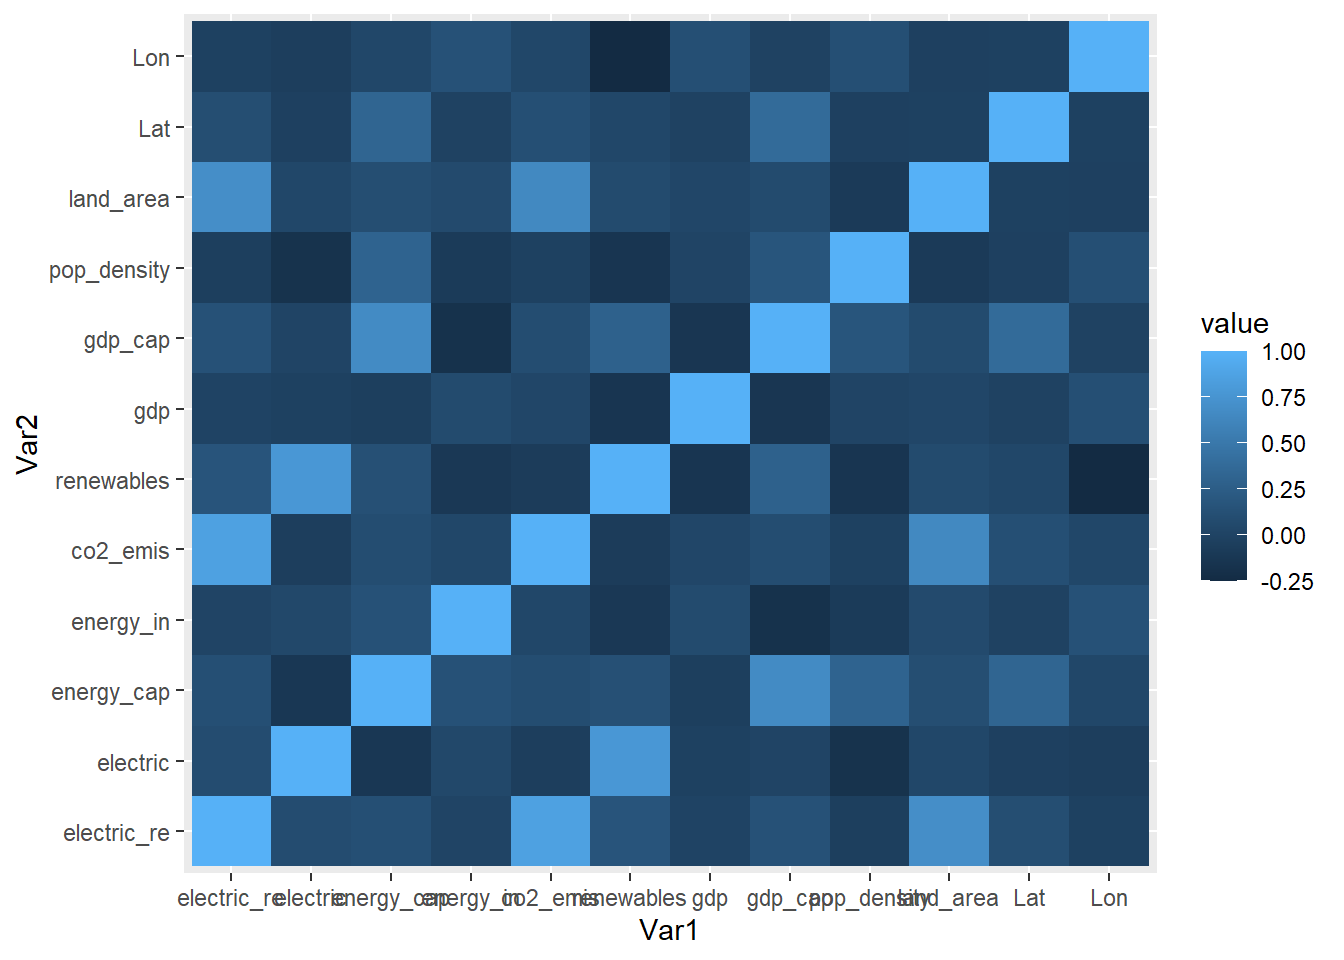
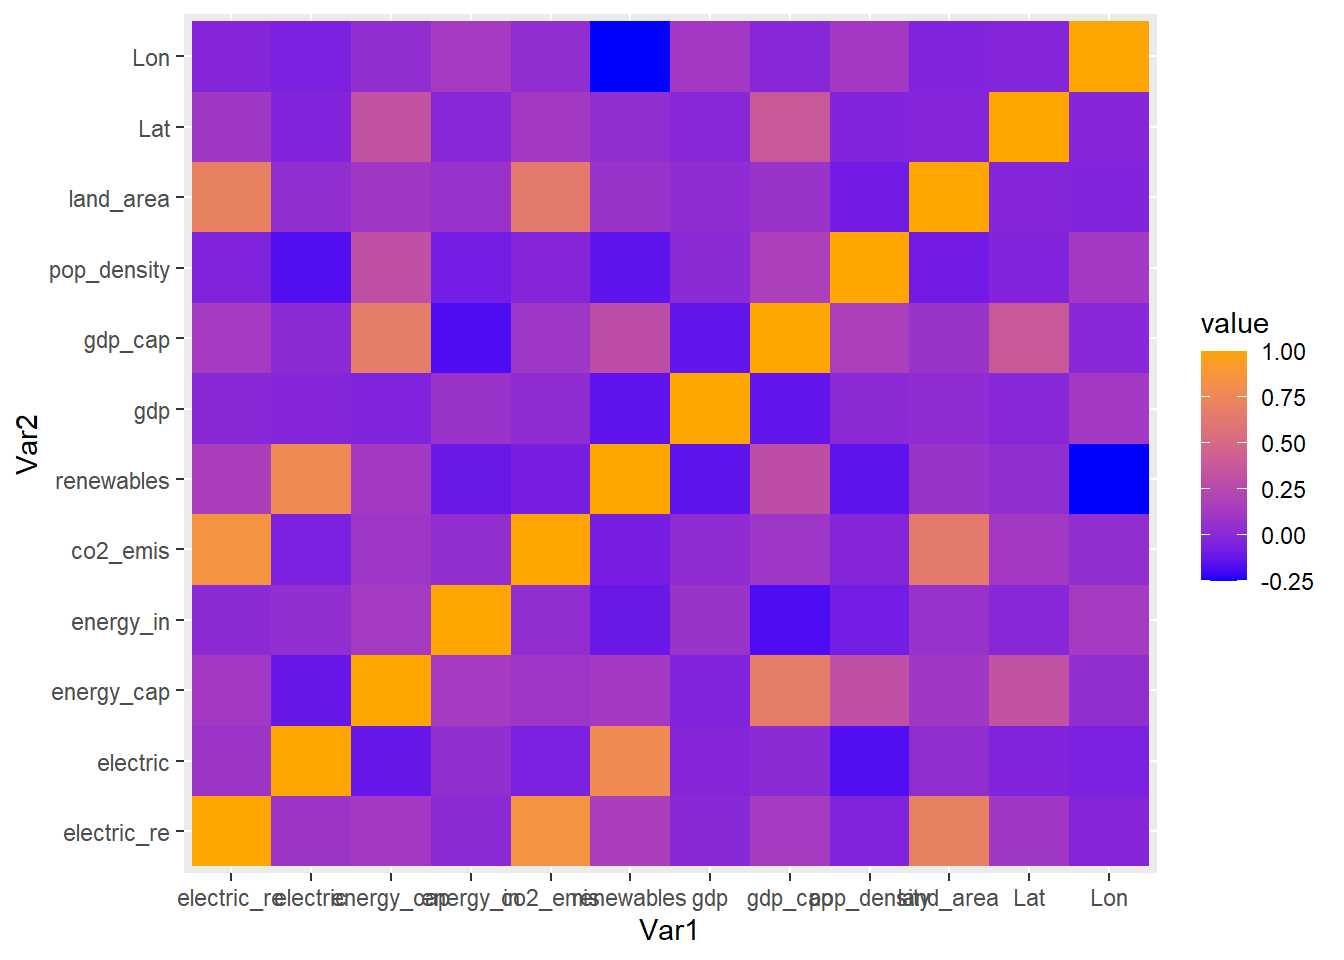
Model added with accuracy metric

diff --git a/rendered_document.html b/rendered_document.html
@@ -318,7 +318,9 @@ Longitude                                                                     1<
 <span id="cb14-2"><a href="#cb14-2" aria-hidden="true" tabindex="-1"></a>corelation_matrix <span class="ot">&lt;-</span> reshape2<span class="sc">::</span><span class="fu">melt</span>(</span>
 <span id="cb14-3"><a href="#cb14-3" aria-hidden="true" tabindex="-1"></a>  <span class="fu">round</span>(<span class="fu">cor</span>(data_for_correlation, <span class="at">use =</span> <span class="st">'pairwise.complete.obs'</span>), <span class="dv">2</span>)</span>
 <span id="cb14-4"><a href="#cb14-4" aria-hidden="true" tabindex="-1"></a>  )</span>
-<span id="cb14-5"><a href="#cb14-5" aria-hidden="true" tabindex="-1"></a><span class="fu">ggplot</span>(<span class="at">data=</span> corelation_matrix, <span class="fu">aes</span>(Var1, Var2, <span class="at">fill =</span> value)) <span class="sc">+</span> <span class="fu">geom_tile</span>()</span></code><button title="Copy to Clipboard" class="code-copy-button"><i class="bi"></i></button></pre></div>
+<span id="cb14-5"><a href="#cb14-5" aria-hidden="true" tabindex="-1"></a><span class="fu">ggplot</span>(<span class="at">data=</span> corelation_matrix, <span class="fu">aes</span>(Var1, Var2)) <span class="sc">+</span> </span>
+<span id="cb14-6"><a href="#cb14-6" aria-hidden="true" tabindex="-1"></a>  <span class="fu">geom_tile</span>(<span class="fu">aes</span>(<span class="at">fill =</span> value)) <span class="sc">+</span></span>
+<span id="cb14-7"><a href="#cb14-7" aria-hidden="true" tabindex="-1"></a>  <span class="fu">scale_fill_gradient</span>(<span class="at">low=</span><span class="st">"blue"</span>, <span class="at">high =</span><span class="st">"orange"</span>)</span></code><button title="Copy to Clipboard" class="code-copy-button"><i class="bi"></i></button></pre></div>
 <div class="cell-output-display">
 <p><img src="rendered_document_files/figure-html/unnamed-chunk-9-1.png" class="img-fluid" width="672"></p>
 </div>
@@ -330,7 +332,7 @@ Longitude                                                                     1<
 </div>
 <p>Observe the general trend for all variables</p>
 <div class="cell">
-<div class="sourceCode cell-code" id="cb16"><pre class="sourceCode r code-with-copy"><code class="sourceCode r"><span id="cb16-1"><a href="#cb16-1" aria-hidden="true" tabindex="-1"></a><span class="cf">for</span> (i <span class="cf">in</span> <span class="fu">which</span>(<span class="fu">colnames</span>(nepal_energy_data)<span class="sc">==</span><span class="st">"Year"</span>)<span class="sc">:</span><span class="fu">which</span>(<span class="fu">colnames</span>(nepal_energy_data)<span class="sc">==</span> <span class="st">"Density</span><span class="sc">\\</span><span class="st">n(P/Km2)"</span>)){</span>
+<div class="sourceCode cell-code" id="cb16"><pre class="sourceCode r code-with-copy"><code class="sourceCode r"><span id="cb16-1"><a href="#cb16-1" aria-hidden="true" tabindex="-1"></a><span class="cf">for</span> (i <span class="cf">in</span> <span class="fu">which</span>(<span class="fu">colnames</span>(nepal_energy_data)<span class="sc">==</span><span class="st">"Year"</span>)<span class="sc">:</span><span class="fu">which</span>(<span class="fu">colnames</span>    (nepal_energy_data)<span class="sc">==</span> <span class="st">"Density</span><span class="sc">\\</span><span class="st">n(P/Km2)"</span>)){</span>
 <span id="cb16-2"><a href="#cb16-2" aria-hidden="true" tabindex="-1"></a>  graph <span class="ot">=</span><span class="fu">ggplot</span>(nepal_energy_data, <span class="fu">aes</span>(Year, nepal_energy_data[[i]]))<span class="sc">+</span></span>
 <span id="cb16-3"><a href="#cb16-3" aria-hidden="true" tabindex="-1"></a>    <span class="fu">geom_line</span>()<span class="sc">+</span></span>
 <span id="cb16-4"><a href="#cb16-4" aria-hidden="true" tabindex="-1"></a>    <span class="fu">xlab</span>(<span class="fu">colnames</span>(nepal_energy_data[i][<span class="dv">1</span>]))<span class="sc">+</span> <span class="fu">ylab</span>(<span class="st">"Measure"</span>)<span class="sc">+</span></span>
@@ -414,20 +416,23 @@ Longitude                                                                     1<
 <p>Step 1: rearrange the columns</p>
 <div class="cell">
 <div class="sourceCode cell-code" id="cb22"><pre class="sourceCode r code-with-copy"><code class="sourceCode r"><span id="cb22-1"><a href="#cb22-1" aria-hidden="true" tabindex="-1"></a>nepal_energy_data <span class="ot">&lt;-</span> nepal_energy_data <span class="sc">%&gt;%</span> </span>
-<span id="cb22-2"><a href="#cb22-2" aria-hidden="true" tabindex="-1"></a>                     <span class="fu">select</span>(<span class="st">`</span><span class="at">Value_co2_emissions_kt_by_country</span><span class="st">`</span>, </span>
+<span id="cb22-2"><a href="#cb22-2" aria-hidden="true" tabindex="-1"></a>                     <span class="fu">select</span>(Year, <span class="st">`</span><span class="at">Value_co2_emissions_kt_by_country</span><span class="st">`</span>, </span>
 <span id="cb22-3"><a href="#cb22-3" aria-hidden="true" tabindex="-1"></a>                            <span class="st">`</span><span class="at">Access to electricity (% of population)</span><span class="st">`</span><span class="sc">:</span> <span class="st">`</span><span class="at">Energy intensity level of primary energy (MJ/$2017 PPP GDP)</span><span class="st">`</span>)</span></code><button title="Copy to Clipboard" class="code-copy-button"><i class="bi"></i></button></pre></div>
 </div>
 <p>step 2: Step wise regression to see if all variables are predictors for CO2 emission</p>
 <div class="cell">
-<div class="sourceCode cell-code" id="cb23"><pre class="sourceCode r code-with-copy"><code class="sourceCode r"><span id="cb23-1"><a href="#cb23-1" aria-hidden="true" tabindex="-1"></a>intercept_only <span class="ot">&lt;-</span> <span class="fu">lm</span>(<span class="st">`</span><span class="at">Value_co2_emissions_kt_by_country</span><span class="st">`</span> <span class="sc">~</span> <span class="dv">1</span>, <span class="at">data=</span>nepal_energy_data)</span>
-<span id="cb23-2"><a href="#cb23-2" aria-hidden="true" tabindex="-1"></a></span>
-<span id="cb23-3"><a href="#cb23-3" aria-hidden="true" tabindex="-1"></a><span class="co">#define model with all predictors</span></span>
-<span id="cb23-4"><a href="#cb23-4" aria-hidden="true" tabindex="-1"></a>all <span class="ot">&lt;-</span> <span class="fu">lm</span>(<span class="st">`</span><span class="at">Value_co2_emissions_kt_by_country</span><span class="st">`</span> <span class="sc">~</span> ., <span class="at">data=</span>nepal_energy_data)</span>
-<span id="cb23-5"><a href="#cb23-5" aria-hidden="true" tabindex="-1"></a></span>
-<span id="cb23-6"><a href="#cb23-6" aria-hidden="true" tabindex="-1"></a><span class="co">#perform forward stepwise regression</span></span>
-<span id="cb23-7"><a href="#cb23-7" aria-hidden="true" tabindex="-1"></a>forward <span class="ot">&lt;-</span> <span class="fu">step</span>(intercept_only, <span class="at">direction=</span><span class="st">"both"</span> , <span class="at">scope=</span><span class="fu">formula</span>(all), <span class="at">trace=</span><span class="dv">0</span>)</span>
-<span id="cb23-8"><a href="#cb23-8" aria-hidden="true" tabindex="-1"></a></span>
-<span id="cb23-9"><a href="#cb23-9" aria-hidden="true" tabindex="-1"></a>kableExtra<span class="sc">::</span> <span class="fu">kable</span>(forward<span class="sc">$</span>anova)</span></code><button title="Copy to Clipboard" class="code-copy-button"><i class="bi"></i></button></pre></div>
+<div class="sourceCode cell-code" id="cb23"><pre class="sourceCode r code-with-copy"><code class="sourceCode r"><span id="cb23-1"><a href="#cb23-1" aria-hidden="true" tabindex="-1"></a>intercept_only <span class="ot">&lt;-</span> <span class="fu">lm</span>(<span class="st">`</span><span class="at">Value_co2_emissions_kt_by_country</span><span class="st">`</span> <span class="sc">~</span> <span class="dv">1</span>, </span>
+<span id="cb23-2"><a href="#cb23-2" aria-hidden="true" tabindex="-1"></a>                      <span class="at">data=</span>nepal_energy_data)</span>
+<span id="cb23-3"><a href="#cb23-3" aria-hidden="true" tabindex="-1"></a></span>
+<span id="cb23-4"><a href="#cb23-4" aria-hidden="true" tabindex="-1"></a><span class="co">#define model with all predictors</span></span>
+<span id="cb23-5"><a href="#cb23-5" aria-hidden="true" tabindex="-1"></a>all <span class="ot">&lt;-</span> <span class="fu">lm</span>(<span class="st">`</span><span class="at">Value_co2_emissions_kt_by_country</span><span class="st">`</span> <span class="sc">~</span> ., </span>
+<span id="cb23-6"><a href="#cb23-6" aria-hidden="true" tabindex="-1"></a>           <span class="at">data=</span>nepal_energy_data)</span>
+<span id="cb23-7"><a href="#cb23-7" aria-hidden="true" tabindex="-1"></a></span>
+<span id="cb23-8"><a href="#cb23-8" aria-hidden="true" tabindex="-1"></a><span class="co">#perform forward stepwise regression</span></span>
+<span id="cb23-9"><a href="#cb23-9" aria-hidden="true" tabindex="-1"></a>forward <span class="ot">&lt;-</span> <span class="fu">step</span>(intercept_only, <span class="at">direction=</span><span class="st">"both"</span> , </span>
+<span id="cb23-10"><a href="#cb23-10" aria-hidden="true" tabindex="-1"></a>                <span class="at">scope=</span><span class="fu">formula</span>(all), <span class="at">trace=</span><span class="dv">0</span>)</span>
+<span id="cb23-11"><a href="#cb23-11" aria-hidden="true" tabindex="-1"></a></span>
+<span id="cb23-12"><a href="#cb23-12" aria-hidden="true" tabindex="-1"></a>kableExtra<span class="sc">::</span> <span class="fu">kable</span>(forward<span class="sc">$</span>anova)</span></code><button title="Copy to Clipboard" class="code-copy-button"><i class="bi"></i></button></pre></div>
 <div class="cell-output-display">
 <table data-quarto-postprocess="true" class="table table-sm table-striped small">
 <thead>
@@ -538,49 +543,113 @@ Longitude                                                                     1<
 <p>result from step-wise regression shows that only six variables are significant in defining co2 emission. this could be wrong but I believe in statistics though its seldom correct. So, keep only those columns</p>
 <div class="cell">
 <div class="sourceCode cell-code" id="cb25"><pre class="sourceCode r code-with-copy"><code class="sourceCode r"><span id="cb25-1"><a href="#cb25-1" aria-hidden="true" tabindex="-1"></a>nepal_feature_selected_data  <span class="ot">&lt;-</span> nepal_energy_data <span class="sc">%&gt;%</span> </span>
-<span id="cb25-2"><a href="#cb25-2" aria-hidden="true" tabindex="-1"></a>  <span class="fu">select</span>( <span class="at">Co2_emission =</span> <span class="st">`</span><span class="at">Value_co2_emissions_kt_by_country</span><span class="st">`</span>, </span>
-<span id="cb25-3"><a href="#cb25-3" aria-hidden="true" tabindex="-1"></a>          <span class="at">Energy_perCap =</span> <span class="st">`</span><span class="at">Primary energy consumption per capita (kWh/person)</span><span class="st">`</span>,</span>
-<span id="cb25-4"><a href="#cb25-4" aria-hidden="true" tabindex="-1"></a>          <span class="at">renewble_fraction =</span> <span class="st">`</span><span class="at">Renewable energy share in the total final energy consumption (%)</span><span class="st">`</span>, </span>
-<span id="cb25-5"><a href="#cb25-5" aria-hidden="true" tabindex="-1"></a>          <span class="at">electricity_perCap=</span> <span class="st">`</span><span class="at">Renewable-electricity-generating-capacity-per-capita</span><span class="st">`</span>,</span>
-<span id="cb25-6"><a href="#cb25-6" aria-hidden="true" tabindex="-1"></a>          <span class="at">low_carbon_electricity =</span> <span class="st">`</span><span class="at">Low-carbon electricity (% electricity)</span><span class="st">`</span>,</span>
-<span id="cb25-7"><a href="#cb25-7" aria-hidden="true" tabindex="-1"></a>          <span class="at">energy_intensity =</span> <span class="st">`</span><span class="at">Energy intensity level of primary energy (MJ/$2017 PPP GDP)</span><span class="st">`</span>)</span></code><button title="Copy to Clipboard" class="code-copy-button"><i class="bi"></i></button></pre></div>
+<span id="cb25-2"><a href="#cb25-2" aria-hidden="true" tabindex="-1"></a>        <span class="fu">select</span>(Year,</span>
+<span id="cb25-3"><a href="#cb25-3" aria-hidden="true" tabindex="-1"></a><span class="at">Co2_emission =</span> <span class="st">`</span><span class="at">Value_co2_emissions_kt_by_country</span><span class="st">`</span>, </span>
+<span id="cb25-4"><a href="#cb25-4" aria-hidden="true" tabindex="-1"></a><span class="at">Energy_perCap =</span> <span class="st">`</span><span class="at">Primary energy consumption per capita (kWh/person)</span><span class="st">`</span>,</span>
+<span id="cb25-5"><a href="#cb25-5" aria-hidden="true" tabindex="-1"></a><span class="at">renewble_fraction =</span> <span class="st">`</span><span class="at">Renewable energy share in the total final energy consumption (%)</span><span class="st">`</span>, </span>
+<span id="cb25-6"><a href="#cb25-6" aria-hidden="true" tabindex="-1"></a><span class="at">electricity_perCap =</span> <span class="st">`</span><span class="at">Renewable-electricity-generating-capacity-per-capita</span><span class="st">`</span>,</span>
+<span id="cb25-7"><a href="#cb25-7" aria-hidden="true" tabindex="-1"></a><span class="at">low_carbon_electricity =</span> <span class="st">`</span><span class="at">Low-carbon electricity (% electricity)</span><span class="st">`</span>,</span>
+<span id="cb25-8"><a href="#cb25-8" aria-hidden="true" tabindex="-1"></a><span class="at">energy_intensity =</span> <span class="st">`</span><span class="at">Energy intensity level of primary energy (MJ/$2017 PPP GDP)</span><span class="st">`</span></span>
+<span id="cb25-9"><a href="#cb25-9" aria-hidden="true" tabindex="-1"></a>)</span></code><button title="Copy to Clipboard" class="code-copy-button"><i class="bi"></i></button></pre></div>
 </div>
-<p>Fit the linear regression model</p>
+<p>Split the data into test and train model</p>
 <div class="cell">
-<div class="sourceCode cell-code" id="cb26"><pre class="sourceCode r code-with-copy"><code class="sourceCode r"><span id="cb26-1"><a href="#cb26-1" aria-hidden="true" tabindex="-1"></a>linear_model <span class="ot">&lt;-</span> <span class="fu">lm</span>(<span class="at">data =</span> nepal_feature_selected_data,</span>
-<span id="cb26-2"><a href="#cb26-2" aria-hidden="true" tabindex="-1"></a>                   Co2_emission <span class="sc">~</span> (<span class="st">`</span><span class="at">Energy_perCap</span><span class="st">`</span> <span class="sc">+</span></span>
-<span id="cb26-3"><a href="#cb26-3" aria-hidden="true" tabindex="-1"></a>                                     renewble_fraction <span class="sc">+</span> </span>
-<span id="cb26-4"><a href="#cb26-4" aria-hidden="true" tabindex="-1"></a>                                     electricity_perCap <span class="sc">+</span></span>
-<span id="cb26-5"><a href="#cb26-5" aria-hidden="true" tabindex="-1"></a>                                     low_carbon_electricity <span class="sc">+</span> </span>
-<span id="cb26-6"><a href="#cb26-6" aria-hidden="true" tabindex="-1"></a>                                     energy_intensity))</span>
+<div class="sourceCode cell-code" id="cb26"><pre class="sourceCode r code-with-copy"><code class="sourceCode r"><span id="cb26-1"><a href="#cb26-1" aria-hidden="true" tabindex="-1"></a><span class="fu">set.seed</span>(<span class="dv">123</span>)</span>
+<span id="cb26-2"><a href="#cb26-2" aria-hidden="true" tabindex="-1"></a>smp_size <span class="ot">&lt;-</span> <span class="fu">floor</span>(<span class="fl">0.75</span> <span class="sc">*</span> <span class="fu">nrow</span>(nepal_feature_selected_data))</span>
+<span id="cb26-3"><a href="#cb26-3" aria-hidden="true" tabindex="-1"></a></span>
+<span id="cb26-4"><a href="#cb26-4" aria-hidden="true" tabindex="-1"></a><span class="do">## set the seed to make your partition reproducible</span></span>
+<span id="cb26-5"><a href="#cb26-5" aria-hidden="true" tabindex="-1"></a><span class="fu">set.seed</span>(<span class="dv">123</span>)</span>
+<span id="cb26-6"><a href="#cb26-6" aria-hidden="true" tabindex="-1"></a>train_ind <span class="ot">&lt;-</span> <span class="fu">sample</span>(<span class="fu">seq_len</span>(<span class="fu">nrow</span>(nepal_feature_selected_data)), <span class="at">size =</span> smp_size)</span>
 <span id="cb26-7"><a href="#cb26-7" aria-hidden="true" tabindex="-1"></a></span>
-<span id="cb26-8"><a href="#cb26-8" aria-hidden="true" tabindex="-1"></a><span class="fu">summary</span>(linear_model)</span></code><button title="Copy to Clipboard" class="code-copy-button"><i class="bi"></i></button></pre></div>
+<span id="cb26-8"><a href="#cb26-8" aria-hidden="true" tabindex="-1"></a>train <span class="ot">&lt;-</span> nepal_feature_selected_data[train_ind, ]</span>
+<span id="cb26-9"><a href="#cb26-9" aria-hidden="true" tabindex="-1"></a>test <span class="ot">&lt;-</span>  nepal_feature_selected_data[<span class="sc">-</span>train_ind, ] </span></code><button title="Copy to Clipboard" class="code-copy-button"><i class="bi"></i></button></pre></div>
+</div>
+<p>Fit the linear regression model on train data</p>
+<div class="cell">
+<div class="sourceCode cell-code" id="cb27"><pre class="sourceCode r code-with-copy"><code class="sourceCode r"><span id="cb27-1"><a href="#cb27-1" aria-hidden="true" tabindex="-1"></a>lm_model <span class="ot">&lt;-</span> <span class="fu">lm</span>(<span class="at">data =</span> train,</span>
+<span id="cb27-2"><a href="#cb27-2" aria-hidden="true" tabindex="-1"></a>                   Co2_emission <span class="sc">~</span> (<span class="st">`</span><span class="at">Energy_perCap</span><span class="st">`</span> <span class="sc">+</span></span>
+<span id="cb27-3"><a href="#cb27-3" aria-hidden="true" tabindex="-1"></a>                                     renewble_fraction <span class="sc">+</span> </span>
+<span id="cb27-4"><a href="#cb27-4" aria-hidden="true" tabindex="-1"></a>                                     electricity_perCap <span class="sc">+</span></span>
+<span id="cb27-5"><a href="#cb27-5" aria-hidden="true" tabindex="-1"></a>                                     low_carbon_electricity <span class="sc">+</span> </span>
+<span id="cb27-6"><a href="#cb27-6" aria-hidden="true" tabindex="-1"></a>                                     energy_intensity))</span>
+<span id="cb27-7"><a href="#cb27-7" aria-hidden="true" tabindex="-1"></a><span class="fu">summary</span>(lm_model)</span></code><button title="Copy to Clipboard" class="code-copy-button"><i class="bi"></i></button></pre></div>
 <div class="cell-output cell-output-stdout">
 <pre><code>
 Call:
 lm(formula = Co2_emission ~ (Energy_perCap + renewble_fraction + 
     electricity_perCap + low_carbon_electricity + energy_intensity), 
-    data = nepal_feature_selected_data)
+    data = train)
 
 Residuals:
     Min      1Q  Median      3Q     Max 
--363.49 -199.71  -75.12  188.07  544.00 
+-470.29 -120.42  -31.65   97.32  469.60 
 
 Coefficients:
-                        Estimate Std. Error t value Pr(&gt;|t|)    
-(Intercept)            71154.691  16682.208   4.265 0.000785 ***
-Energy_perCap              2.349      1.697   1.384 0.187973    
-renewble_fraction       -424.105     85.591  -4.955 0.000211 ***
-electricity_perCap       166.006     54.140   3.066 0.008376 ** 
-low_carbon_electricity  -384.555    164.856  -2.333 0.035102 *  
-energy_intensity         484.339    295.424   1.639 0.123384    
+                        Estimate Std. Error t value Pr(&gt;|t|)  
+(Intercept)            93412.018  50073.459   1.865   0.0991 .
+Energy_perCap              5.314      2.225   2.388   0.0440 *
+renewble_fraction       -293.521    103.497  -2.836   0.0219 *
+electricity_perCap       125.574     90.352   1.390   0.2020  
+low_carbon_electricity  -751.207    528.943  -1.420   0.1933  
+energy_intensity         693.021    315.707   2.195   0.0594 .
 ---
 Signif. codes:  0 '***' 0.001 '**' 0.01 '*' 0.05 '.' 0.1 ' ' 1
 
-Residual standard error: 320.2 on 14 degrees of freedom
+Residual standard error: 305.5 on 8 degrees of freedom
   (1 observation deleted due to missingness)
-Multiple R-squared:  0.9951,    Adjusted R-squared:  0.9934 
-F-statistic: 570.5 on 5 and 14 DF,  p-value: 1.173e-15</code></pre>
+Multiple R-squared:  0.9961,    Adjusted R-squared:  0.9937 
+F-statistic: 413.5 on 5 and 8 DF,  p-value: 1.983e-09</code></pre>
+</div>
+<div class="sourceCode cell-code" id="cb29"><pre class="sourceCode r code-with-copy"><code class="sourceCode r"><span id="cb29-1"><a href="#cb29-1" aria-hidden="true" tabindex="-1"></a><span class="fu">t</span>(broom<span class="sc">::</span><span class="fu">glance</span>(lm_model)) <span class="do">##glance creates in long columns, transpose changes it to one column format</span></span></code><button title="Copy to Clipboard" class="code-copy-button"><i class="bi"></i></button></pre></div>
+<div class="cell-output cell-output-stdout">
+<pre><code>                       [,1]
+r.squared      9.961452e-01
+adj.r.squared  9.937360e-01
+sigma          3.054509e+02
+statistic      4.134701e+02
+p.value        1.983143e-09
+df             5.000000e+00
+logLik        -9.605288e+01
+AIC            2.061058e+02
+BIC            2.105792e+02
+deviance       7.464020e+05
+df.residual    8.000000e+00
+nobs           1.400000e+01</code></pre>
+</div>
+</div>
+<p>Test model accuracy using test dataset</p>
+<div class="cell">
+<div class="sourceCode cell-code" id="cb31"><pre class="sourceCode r code-with-copy"><code class="sourceCode r"><span id="cb31-1"><a href="#cb31-1" aria-hidden="true" tabindex="-1"></a>train[<span class="st">"model_predict"</span>] <span class="ot">&lt;-</span> <span class="fu">predict</span>(lm_model, train)</span>
+<span id="cb31-2"><a href="#cb31-2" aria-hidden="true" tabindex="-1"></a></span>
+<span id="cb31-3"><a href="#cb31-3" aria-hidden="true" tabindex="-1"></a><span class="fu">ggplot</span>(train, <span class="fu">aes</span>(Year, Co2_emission))<span class="sc">+</span></span>
+<span id="cb31-4"><a href="#cb31-4" aria-hidden="true" tabindex="-1"></a>  <span class="fu">geom_line</span>()<span class="sc">+</span></span>
+<span id="cb31-5"><a href="#cb31-5" aria-hidden="true" tabindex="-1"></a>  <span class="fu">geom_line</span>(<span class="fu">aes</span>(Year, model_predict), <span class="at">color=</span><span class="st">"green"</span>)</span></code><button title="Copy to Clipboard" class="code-copy-button"><i class="bi"></i></button></pre></div>
+<div class="cell-output cell-output-stderr">
+<pre><code>Warning: Removed 1 row containing missing values (`geom_line()`).
+Removed 1 row containing missing values (`geom_line()`).</code></pre>
+</div>
+<div class="cell-output-display">
+<p><img src="rendered_document_files/figure-html/unnamed-chunk-17-1.png" class="img-fluid" width="672"></p>
+</div>
+</div>
+<p>Linear model has high accuracy for the data set. Now use the same model to forecast the co2 consumption for next 10 years.</p>
+<p>Use mathematic metrics MAE to check the accuracy of the model</p>
+<div class="cell">
+<div class="sourceCode cell-code" id="cb33"><pre class="sourceCode r code-with-copy"><code class="sourceCode r"><span id="cb33-1"><a href="#cb33-1" aria-hidden="true" tabindex="-1"></a>MAE <span class="ot">&lt;-</span> (<span class="dv">1</span><span class="sc">/</span><span class="fu">nrow</span>(train))<span class="sc">*</span><span class="fu">sum</span>((train<span class="sc">$</span>model_predict<span class="sc">-</span> train<span class="sc">$</span>Co2_emission), <span class="at">na.rm =</span> <span class="cn">TRUE</span>)</span>
+<span id="cb33-2"><a href="#cb33-2" aria-hidden="true" tabindex="-1"></a><span class="fu">print</span>(MAE)</span></code><button title="Copy to Clipboard" class="code-copy-button"><i class="bi"></i></button></pre></div>
+<div class="cell-output cell-output-stdout">
+<pre><code>[1] 8.852415e-12</code></pre>
+</div>
+</div>
+<p>The MAE calculation gave output a number. It’s hard to interpret. Normalize it between 0 to 1, so that low values of MAE is the best fit</p>
+<div class="cell">
+<div class="sourceCode cell-code" id="cb35"><pre class="sourceCode r code-with-copy"><code class="sourceCode r"><span id="cb35-1"><a href="#cb35-1" aria-hidden="true" tabindex="-1"></a>range_actual <span class="ot">&lt;-</span> <span class="fu">max</span>(train<span class="sc">$</span>Co2_emission, <span class="at">na.rm =</span> <span class="cn">TRUE</span>) <span class="sc">-</span> <span class="fu">min</span>(train<span class="sc">$</span>Co2_emission, </span>
+<span id="cb35-2"><a href="#cb35-2" aria-hidden="true" tabindex="-1"></a>                                                            <span class="at">na.rm=</span><span class="cn">TRUE</span>)</span>
+<span id="cb35-3"><a href="#cb35-3" aria-hidden="true" tabindex="-1"></a><span class="co"># Normalize MAE</span></span>
+<span id="cb35-4"><a href="#cb35-4" aria-hidden="true" tabindex="-1"></a>normalized_MAE <span class="ot">&lt;-</span> (MAE<span class="sc">/</span>range_actual)</span>
+<span id="cb35-5"><a href="#cb35-5" aria-hidden="true" tabindex="-1"></a>normalized_MAE</span></code><button title="Copy to Clipboard" class="code-copy-button"><i class="bi"></i></button></pre></div>
+<div class="cell-output cell-output-stdout">
+<pre><code>[1] 7.081932e-16</code></pre>
 </div>
 </div>
 </section>
